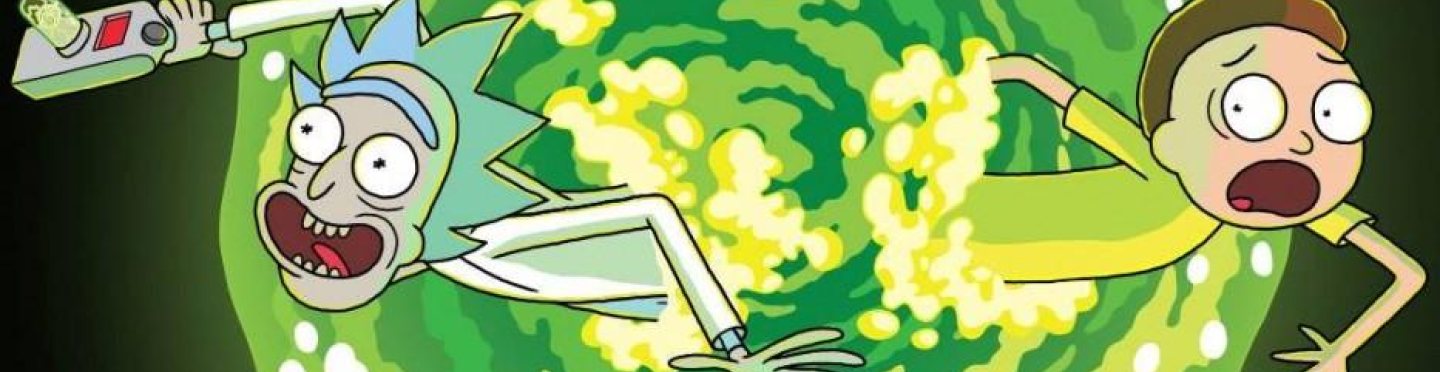
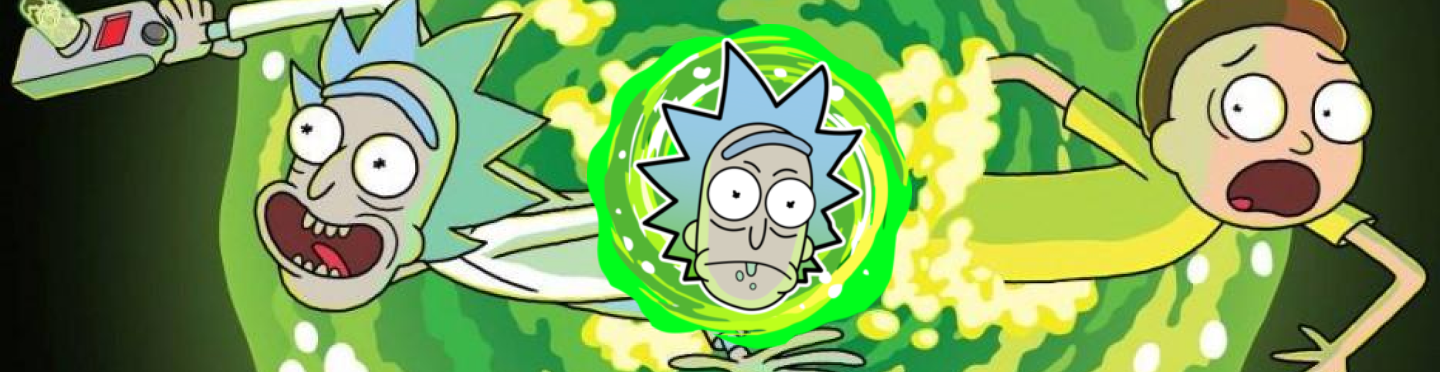
update

Changed region(s): [[0.4062, 0.0591, 0.6562, 0.9462]]

diff --git a/src/App.jsx b/src/App.jsx
@@ -55,7 +55,7 @@ function App() {
         <>
       {/* <LoadingScreen /> */}
       <header>
-        <img src={unnamed} alt="" className='icon-header'/>
+        {/* <img src='' alt="" className='icon-header'/> */}
         <img src={picHeader} alt="header" className='main-header' />
         <div className="search">
           <input type="text"

diff --git a/src/App.css b/src/App.css
@@ -27,7 +27,7 @@ header {
   display: flex;
   justify-content: center;
   flex-direction: column;
-  margin-top: -20%;
+  /* margin-top: -20%; */
 }
 
 header > .main-header {
